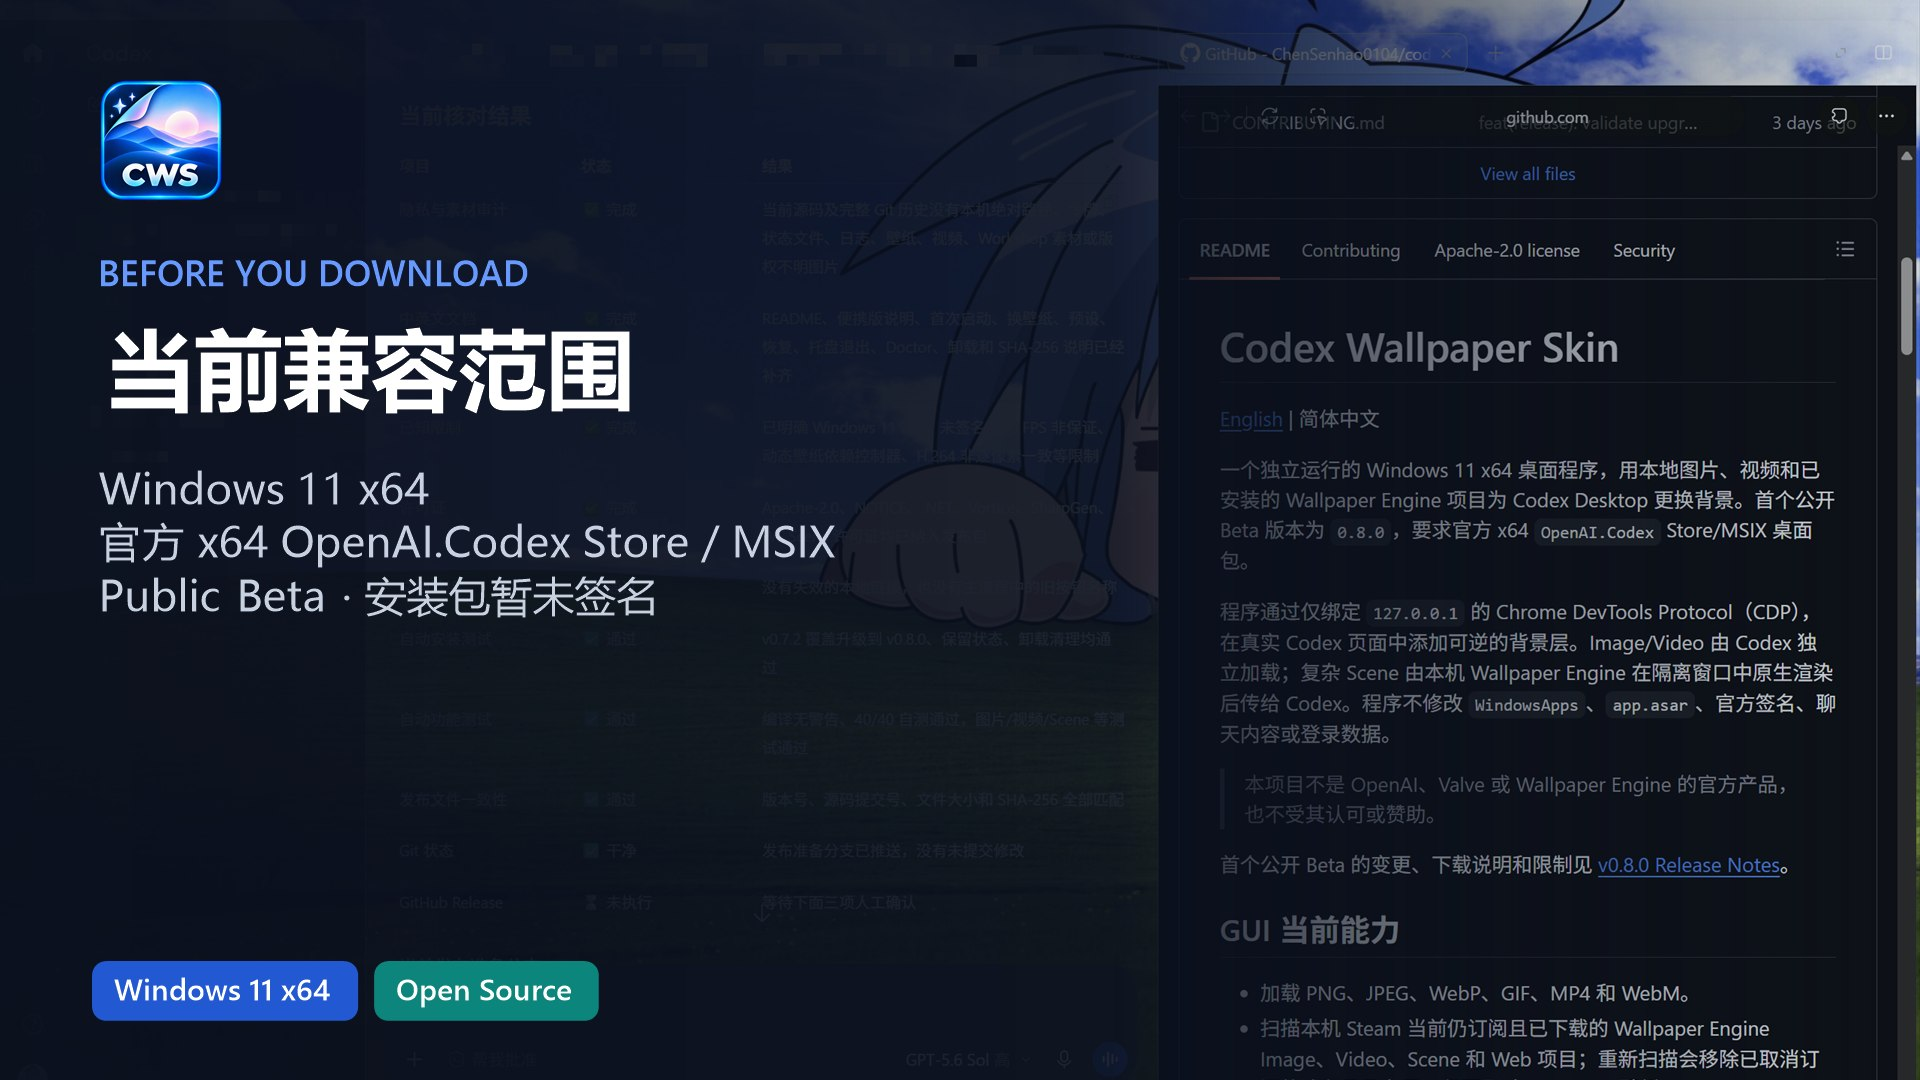
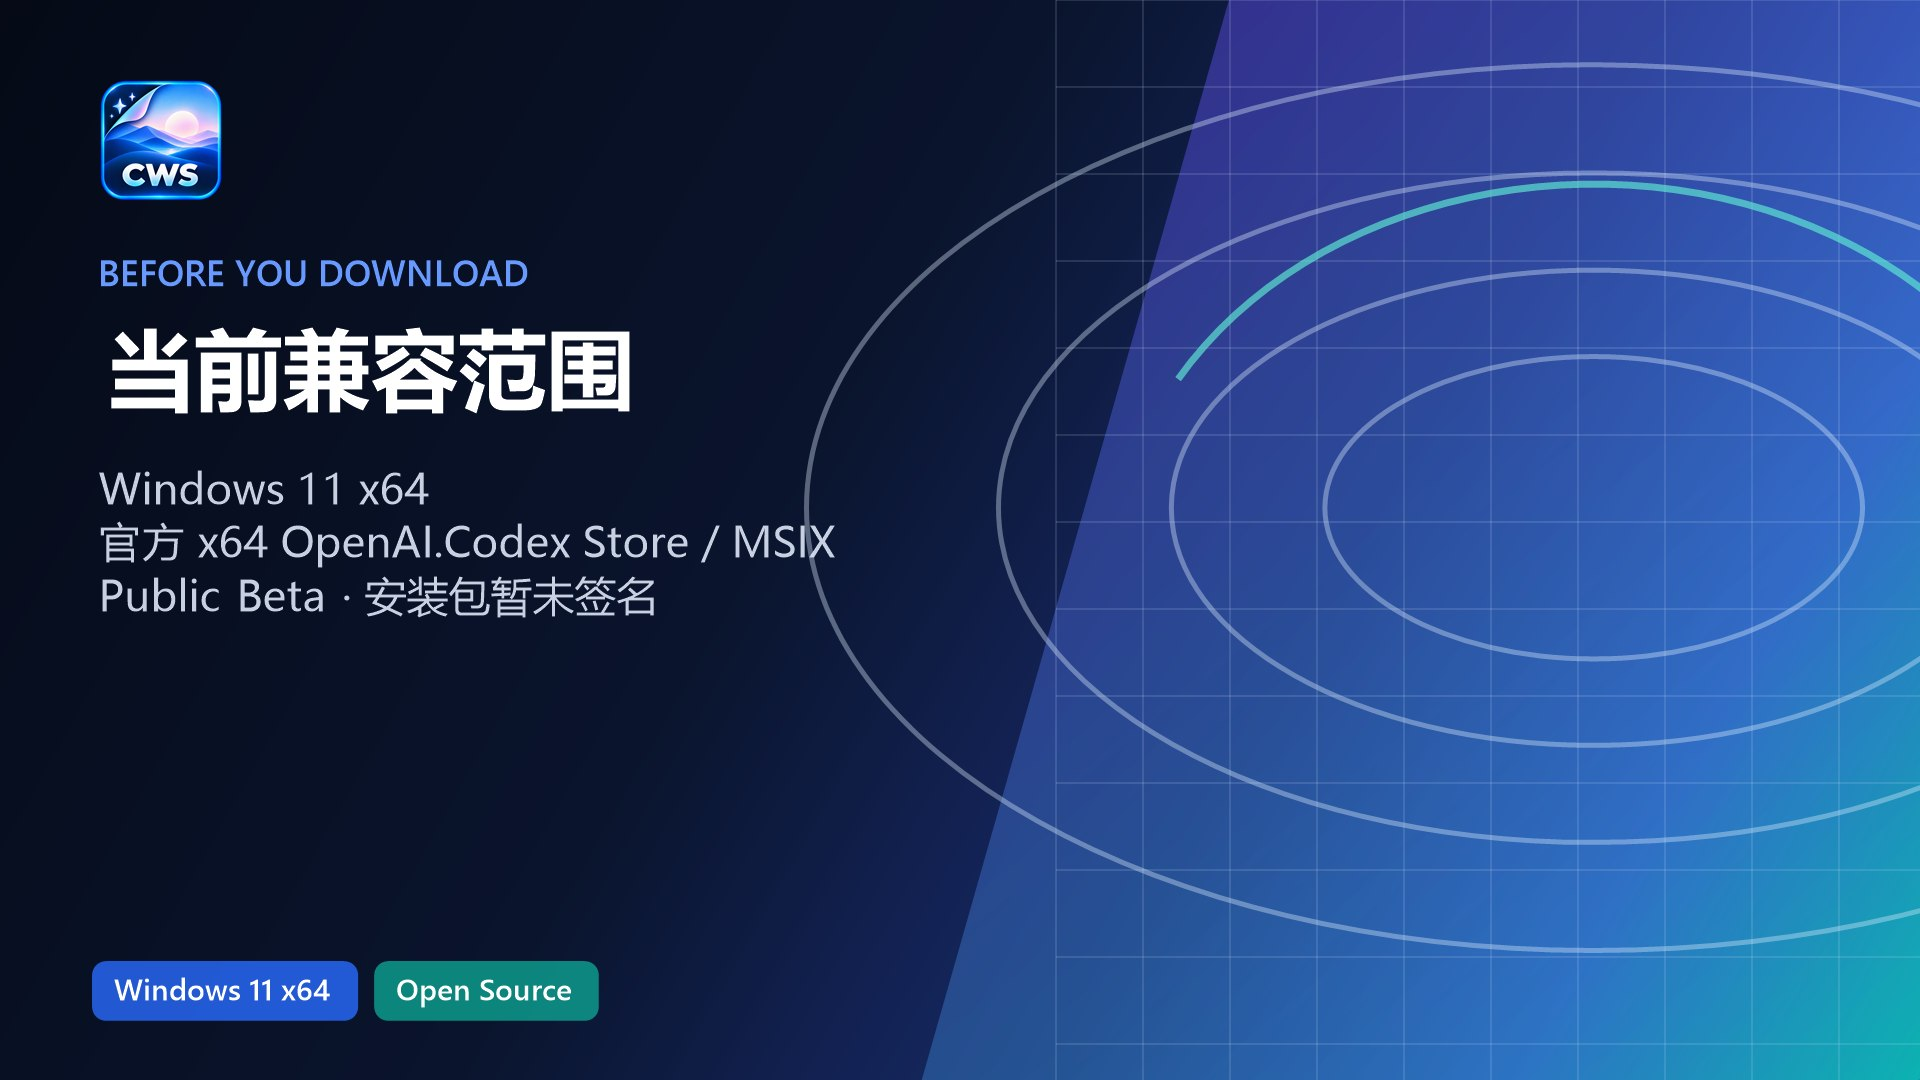
docs: make campaign artwork rights-safe

diff --git a/promotion/assets/README.md b/promotion/assets/README.md
@@ -1,6 +1,6 @@
 # Generated promotion artwork
 
-These files are generated from the checked-in project logo and real Codex Wallpaper Skin showcase screenshot:
+These files are generated from the checked-in project logo plus programmatic geometry and gradients. They intentionally contain no third-party wallpaper and no simulated product interface:
 
 - `social-preview.jpg` — 1280×640, suitable for GitHub Settings → General → Social preview.
 - `bilibili-cover.jpg` — 1920×1080 horizontal cover source.
@@ -8,10 +8,10 @@ These files are generated from the checked-in project logo and real Codex Wallpa
 - `compatibility-card.jpg` — 1920×1080 platform/known-boundary card for 02:08–02:22.
 - `end-card.jpg` — 1920×1080 GitHub call-to-action card for the final five seconds.
 
-Regenerate all three from the repository root with:
+Regenerate all five from the repository root with:
 
 ```powershell
 pwsh -NoProfile -File .\scripts\build-promotion-assets.ps1
 ```
 
-The files show real project output. Any third-party artwork or application interface visible inside the screenshot retains its original rights status as described in `docs/images/showcase/README.md`.
+Use these files as rights-safe brand cards. The trailer's product-effect shots must still use real Codex recordings whose wallpaper rights are documented in `promotion/credits-template.md`.

diff --git a/promotion/credits-template.md b/promotion/credits-template.md
@@ -5,6 +5,7 @@ Complete this table before the first public export. “Permission basis” must 
 | Asset/shot | Creator | Source URL | Permission basis/license | Required attribution | Approved for Bilibili | Approved for GitHub/Reddit |
 |---|---|---|---|---|---|---|
 | Project logo | Silas Chenery | `assets/CWS-logo-v3.0.png` | Project-owned, Apache-2.0 | Codex Wallpaper Skin | Yes | Yes |
+| Campaign brand cards | Codex Wallpaper Skin contributors | `scripts/build-promotion-assets.ps1` | Project-owned generated geometry; no third-party wallpaper | None | Yes | Yes |
 | Music |  |  |  |  |  |  |
 | Static wallpaper |  |  |  |  |  |  |
 | Video wallpaper |  |  |  |  |  |  |

diff --git a/promotion/README.md b/promotion/README.md
@@ -36,4 +36,4 @@ Run from the repository root:
 pwsh -NoProfile -File .\scripts\build-promotion-assets.ps1
 ```
 
-The script only reads the checked-in logo and showcase screenshot and regenerates the JPEG files in `promotion/assets/`.
+The script reads the checked-in project logo and generates the remaining geometry and gradients itself. It regenerates the rights-safe JPEG files in `promotion/assets/` without embedding a third-party wallpaper or product-interface screenshot.
